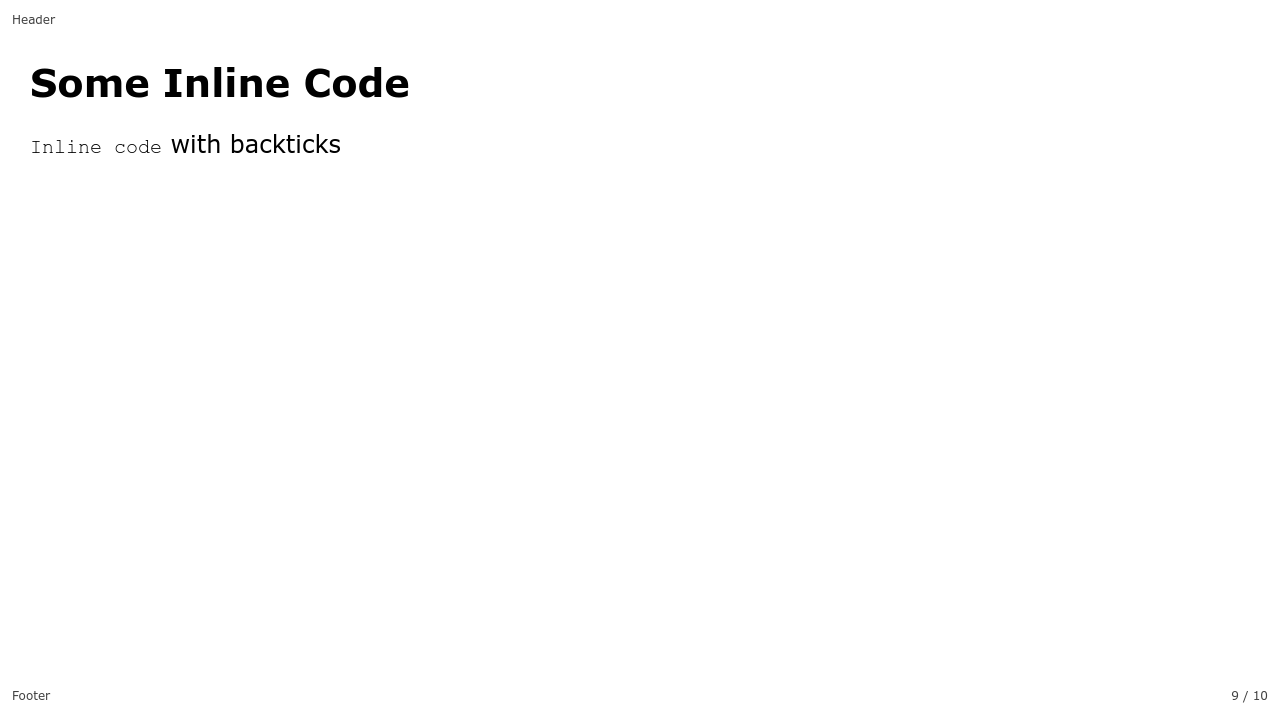
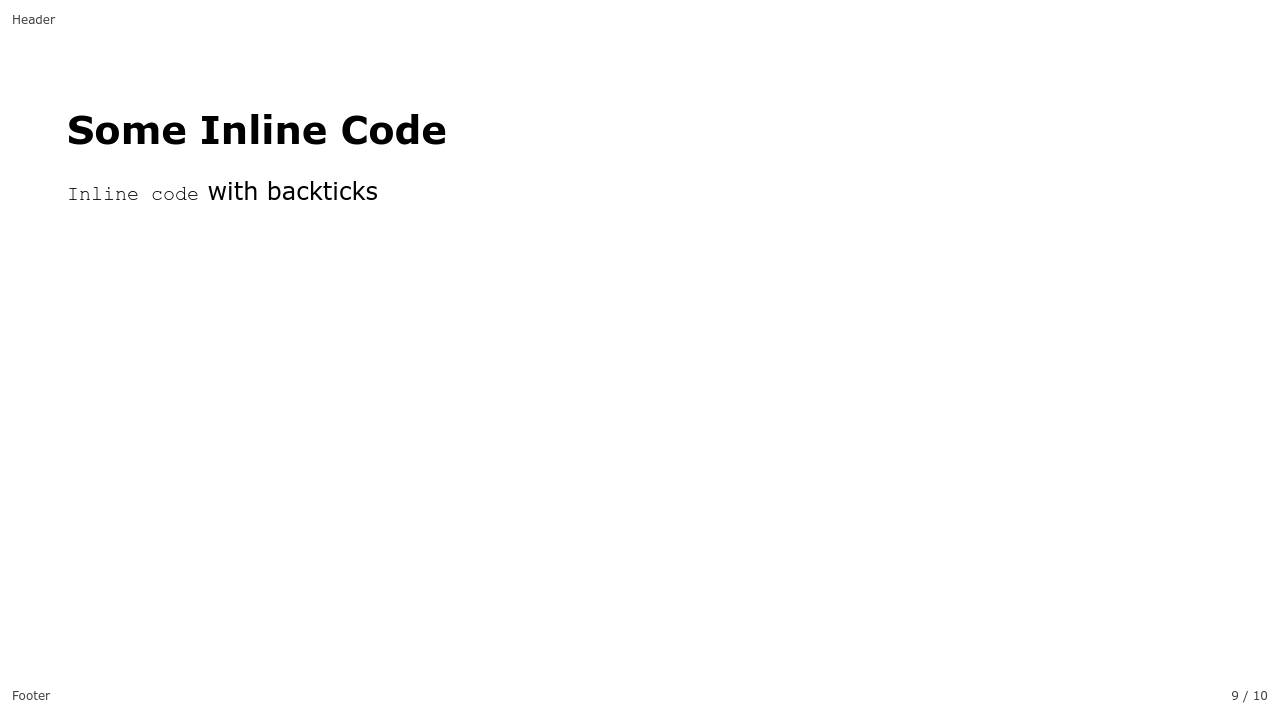
increased slide padding and moved it back into base style since there is no need to specify it through variables, it can still be overwritten

Changed region(s): [[0.0, 0.0917, 0.3438, 0.2139], [0.125, 0.2444, 0.3125, 0.275], [0.0625, 0.2444, 0.0938, 0.275]]

diff --git a/previews/minimal/html/slides.html b/previews/minimal/html/slides.html
@@ -1,14 +1,14 @@
[1 lines of base64/hex data omitted]
-/* @theme minimal */div#p>svg>foreignObject>section footer,div#p>svg>foreignObject>section header{position:absolute;left:0;right:0;margin:0}div#p>svg>foreignObject>section header{top:0;padding:12px;height:20px;font-size:12px;color:rgba(0,0,0,0.75)}div#p>svg>foreignObject>section footer{bottom:0;padding:12px;height:20px;font-size:12px;color:rgba(0,0,0,0.75)}div#p>svg>foreignObject>section{padding:20px 20px 30px 30px;justify-content:center;flex-direction:column;flex-wrap:nowrap;font-family:Verdana,Geneva,Tahoma,sans-serif;font-size:1.5em;color:black;background-color:white}div#p>svg>foreignObject>section h1{font-size:2.5em;color:black}div#p>svg>foreignObject>section h1:first-of-type{margin-top:17%}div#p>svg>foreignObject>section h2{font-size:1.3em;color:rgba(0,0,0,0.5)}div#p>svg>foreignObject>section h1,div#p>svg>foreignObject>section h2{text-align:center}div#p>svg>foreignObject>section h3{font-size:1.6em}div#p>svg>foreignObject>section h4{font-size:1.4em}div#p>svg>foreignObject>section h5{font-size:1.2em}div#p>svg>foreignObject>section h6{font-size:1em}div#p>svg>foreignObject>section h3,div#p>svg>foreignObject>section h4,div#p>svg>foreignObject>section h5,div#p>svg>foreignObject>section h6{border-bottom:none;margin-bottom:21px}div#p>svg>foreignObject>section h1 strong,div#p>svg>foreignObject>section h2 strong,div#p>svg>foreignObject>section h3 strong,div#p>svg>foreignObject>section h4 strong,div#p>svg>foreignObject>section h5 strong,div#p>svg>foreignObject>section h6 strong{font-weight:inherit}div#p>svg>foreignObject>section hr{height:0;padding-top:0.25em}div#p>svg>foreignObject>section ol,div#p>svg>foreignObject>section ul{margin:30px;text-align:left}div#p>svg>foreignObject>section ol li,div#p>svg>foreignObject>section ul li{font-size:1.5em}div#p>svg>foreignObject>section ol li li,div#p>svg>foreignObject>section ul li li{font-size:90%}div#p>svg>foreignObject>section ul{list-style-type:square}div#p>svg>foreignObject>section img{border:1px solid black;display:block;margin-left:auto;margin-right:auto;background-color:transparent}div#p>svg>foreignObject>section a{color:blue;text-decoration:underline}div#p>svg>foreignObject>section blockquote{border-left:13px solid black;padding-left:13px;color:rgba(0,0,0,0.75)}div#p>svg>foreignObject>section table{margin-left:auto;margin-right:auto;border-collapse:collapse}div#p>svg>foreignObject>section table tr{background-color:white;border-color:black}div#p>svg>foreignObject>section table tr:nth-child(2n){background-color:lightgrey}div#p>svg>foreignObject>section table th{background-color:darkgrey}div#p>svg>foreignObject>section table td,div#p>svg>foreignObject>section table th{border:1px solid black;padding:12px}div#p>svg>foreignObject>section pre{border:1px solid black;color:black;background-color:white;padding:5px}div#p>svg>foreignObject>section:after{position:absolute;padding:12px;height:20px;color:rgba(0,0,0,0.75);font-size:12px;content:attr(data-marpit-pagination) " / " attr(data-marpit-pagination-total)}
+/* @theme minimal */div#p>svg>foreignObject>section footer,div#p>svg>foreignObject>section header{position:absolute;left:0;right:0;margin:0}div#p>svg>foreignObject>section header{top:0;padding:12px;height:20px;font-size:12px;color:rgba(0,0,0,0.75)}div#p>svg>foreignObject>section footer{bottom:0;padding:12px;height:20px;font-size:12px;color:rgba(0,0,0,0.75)}div#p>svg>foreignObject>section{padding:67px;justify-content:center;flex-direction:column;flex-wrap:nowrap;font-family:Verdana,Geneva,Tahoma,sans-serif;font-size:1.5em;color:black;background-color:white}div#p>svg>foreignObject>section h1{font-size:2.5em;color:black}div#p>svg>foreignObject>section h1:first-of-type{margin-top:17%}div#p>svg>foreignObject>section h2{font-size:1.3em;color:rgba(0,0,0,0.5)}div#p>svg>foreignObject>section h1,div#p>svg>foreignObject>section h2{text-align:center}div#p>svg>foreignObject>section h3{font-size:1.6em}div#p>svg>foreignObject>section h4{font-size:1.4em}div#p>svg>foreignObject>section h5{font-size:1.2em}div#p>svg>foreignObject>section h6{font-size:1em}div#p>svg>foreignObject>section h3,div#p>svg>foreignObject>section h4,div#p>svg>foreignObject>section h5,div#p>svg>foreignObject>section h6{border-bottom:none;margin-bottom:21px}div#p>svg>foreignObject>section h1 strong,div#p>svg>foreignObject>section h2 strong,div#p>svg>foreignObject>section h3 strong,div#p>svg>foreignObject>section h4 strong,div#p>svg>foreignObject>section h5 strong,div#p>svg>foreignObject>section h6 strong{font-weight:inherit}div#p>svg>foreignObject>section hr{height:0;padding-top:0.25em}div#p>svg>foreignObject>section ol,div#p>svg>foreignObject>section ul{margin:30px;text-align:left}div#p>svg>foreignObject>section ol li,div#p>svg>foreignObject>section ul li{font-size:1.5em}div#p>svg>foreignObject>section ol li li,div#p>svg>foreignObject>section ul li li{font-size:90%}div#p>svg>foreignObject>section ul{list-style-type:square}div#p>svg>foreignObject>section img{border:1px solid black;display:block;margin-left:auto;margin-right:auto;background-color:transparent}div#p>svg>foreignObject>section a{color:blue;text-decoration:underline}div#p>svg>foreignObject>section blockquote{border-left:13px solid black;padding-left:13px;color:rgba(0,0,0,0.75)}div#p>svg>foreignObject>section table{margin-left:auto;margin-right:auto;border-collapse:collapse}div#p>svg>foreignObject>section table tr{background-color:white;border-color:black}div#p>svg>foreignObject>section table tr:nth-child(2n){background-color:lightgrey}div#p>svg>foreignObject>section table th{background-color:darkgrey}div#p>svg>foreignObject>section table td,div#p>svg>foreignObject>section table th{border:1px solid black;padding:12px}div#p>svg>foreignObject>section pre{border:1px solid black;color:black;background-color:white;padding:5px}div#p>svg>foreignObject>section:after{position:absolute;padding:12px;height:20px;color:rgba(0,0,0,0.75);font-size:12px;content:attr(data-marpit-pagination) " / " attr(data-marpit-pagination-total)}
 
-/* @theme 5i1w0ti58xu8szjmrrptvm53612vvsrd7iun10n13jt */div#p>svg>foreignObject>section[data-marpit-advanced-background=background]{display:block!important;padding:0!important}div#p>svg>foreignObject>section[data-marpit-advanced-background=background]:after,div#p>svg>foreignObject>section[data-marpit-advanced-background=background]:before,div#p>svg>foreignObject>section[data-marpit-advanced-background=content]:after,div#p>svg>foreignObject>section[data-marpit-advanced-background=content]:before{display:none!important}div#p>svg>foreignObject>section[data-marpit-advanced-background=background]>div[data-marpit-advanced-background-container]{all:initial;display:flex;flex-direction:row;height:100%;overflow:hidden;width:100%}div#p>svg>foreignObject>section[data-marpit-advanced-background=background]>div[data-marpit-advanced-background-container][data-marpit-advanced-background-direction=vertical]{flex-direction:column}div#p>svg>foreignObject>section[data-marpit-advanced-background=background][data-marpit-advanced-background-split]>div[data-marpit-advanced-background-container]{width:var(--marpit-advanced-background-split,50%)}div#p>svg>foreignObject>section[data-marpit-advanced-background=background][data-marpit-advanced-background-split=right]>div[data-marpit-advanced-background-container]{margin-left:calc(100% - var(--marpit-advanced-background-split, 50%))}div#p>svg>foreignObject>section[data-marpit-advanced-background=background]>div[data-marpit-advanced-background-container]>figure{all:initial;background-position:center;background-repeat:no-repeat;background-size:cover;flex:auto;margin:0}div#p>svg>foreignObject>section[data-marpit-advanced-background=content],div#p>svg>foreignObject>section[data-marpit-advanced-background=pseudo]{background:transparent!important}div#p>svg>foreignObject>section[data-marpit-advanced-background=pseudo],div#p>svg[data-marpit-svg]>foreignObject[data-marpit-advanced-background=pseudo]{pointer-events:none!important}div#p>svg>foreignObject>section[data-marpit-advanced-background-split]{width:100%;height:100%}</style></head><body><div class="bespoke-marp-osc"><button data-bespoke-marp-osc="prev" tabindex="-1" title="Previous slide">Previous slide</button><span data-bespoke-marp-osc="page"></span><button data-bespoke-marp-osc="next" tabindex="-1" title="Next slide">Next slide</button><button data-bespoke-marp-osc="fullscreen" tabindex="-1" title="Toggle fullscreen (f)">Toggle fullscreen</button><button data-bespoke-marp-osc="presenter" tabindex="-1" title="Open presenter view (p)">Open presenter view</button></div><div id="p"><svg data-marpit-svg="" viewBox="0 0 1280 720"><foreignObject width="1280" height="720"><section id="1" data-paginate="true" data-header="Header" data-footer="Footer" data-theme="5i1w0ti58xu8szjmrrptvm53612vvsrd7iun10n13jt" data-marpit-pagination="1" data-marpit-pagination-total="10" style="--paginate:true;--header:Header;--footer:Footer;--theme:5i1w0ti58xu8szjmrrptvm53612vvsrd7iun10n13jt;">
+/* @theme 3f1z46uzt5fdqct5ovda8gxec0eg3oc8p7kho1vhoqvx */div#p>svg>foreignObject>section[data-marpit-advanced-background=background]{display:block!important;padding:0!important}div#p>svg>foreignObject>section[data-marpit-advanced-background=background]:after,div#p>svg>foreignObject>section[data-marpit-advanced-background=background]:before,div#p>svg>foreignObject>section[data-marpit-advanced-background=content]:after,div#p>svg>foreignObject>section[data-marpit-advanced-background=content]:before{display:none!important}div#p>svg>foreignObject>section[data-marpit-advanced-background=background]>div[data-marpit-advanced-background-container]{all:initial;display:flex;flex-direction:row;height:100%;overflow:hidden;width:100%}div#p>svg>foreignObject>section[data-marpit-advanced-background=background]>div[data-marpit-advanced-background-container][data-marpit-advanced-background-direction=vertical]{flex-direction:column}div#p>svg>foreignObject>section[data-marpit-advanced-background=background][data-marpit-advanced-background-split]>div[data-marpit-advanced-background-container]{width:var(--marpit-advanced-background-split,50%)}div#p>svg>foreignObject>section[data-marpit-advanced-background=background][data-marpit-advanced-background-split=right]>div[data-marpit-advanced-background-container]{margin-left:calc(100% - var(--marpit-advanced-background-split, 50%))}div#p>svg>foreignObject>section[data-marpit-advanced-background=background]>div[data-marpit-advanced-background-container]>figure{all:initial;background-position:center;background-repeat:no-repeat;background-size:cover;flex:auto;margin:0}div#p>svg>foreignObject>section[data-marpit-advanced-background=content],div#p>svg>foreignObject>section[data-marpit-advanced-background=pseudo]{background:transparent!important}div#p>svg>foreignObject>section[data-marpit-advanced-background=pseudo],div#p>svg[data-marpit-svg]>foreignObject[data-marpit-advanced-background=pseudo]{pointer-events:none!important}div#p>svg>foreignObject>section[data-marpit-advanced-background-split]{width:100%;height:100%}</style></head><body><div class="bespoke-marp-osc"><button data-bespoke-marp-osc="prev" tabindex="-1" title="Previous slide">Previous slide</button><span data-bespoke-marp-osc="page"></span><button data-bespoke-marp-osc="next" tabindex="-1" title="Next slide">Next slide</button><button data-bespoke-marp-osc="fullscreen" tabindex="-1" title="Toggle fullscreen (f)">Toggle fullscreen</button><button data-bespoke-marp-osc="presenter" tabindex="-1" title="Open presenter view (p)">Open presenter view</button></div><div id="p"><svg data-marpit-svg="" viewBox="0 0 1280 720"><foreignObject width="1280" height="720"><section id="1" data-paginate="true" data-header="Header" data-footer="Footer" data-theme="3f1z46uzt5fdqct5ovda8gxec0eg3oc8p7kho1vhoqvx" data-marpit-pagination="1" data-marpit-pagination-total="10" style="--paginate:true;--header:Header;--footer:Footer;--theme:3f1z46uzt5fdqct5ovda8gxec0eg3oc8p7kho1vhoqvx;">
 <header>Header</header>
 
 <h1>Some Crazy Tile of Your Presentation</h1>
 <h2>Some longer or shorter subtitle of your presentation</h2>
 <footer>Footer</footer>
 </section>
-</foreignObject></svg><svg data-marpit-svg="" viewBox="0 0 1280 720"><foreignObject width="1280" height="720"><section id="2" data-paginate="true" data-header="Header" data-footer="Footer" data-theme="5i1w0ti58xu8szjmrrptvm53612vvsrd7iun10n13jt" data-marpit-pagination="2" data-marpit-pagination-total="10" style="--paginate:true;--header:Header;--footer:Footer;--theme:5i1w0ti58xu8szjmrrptvm53612vvsrd7iun10n13jt;">
+</foreignObject></svg><svg data-marpit-svg="" viewBox="0 0 1280 720"><foreignObject width="1280" height="720"><section id="2" data-paginate="true" data-header="Header" data-footer="Footer" data-theme="3f1z46uzt5fdqct5ovda8gxec0eg3oc8p7kho1vhoqvx" data-marpit-pagination="2" data-marpit-pagination-total="10" style="--paginate:true;--header:Header;--footer:Footer;--theme:3f1z46uzt5fdqct5ovda8gxec0eg3oc8p7kho1vhoqvx;">
 <header>Header</header>
 <h3>h3</h3>
 <p>normal text</p>
@@ -20,7 +20,7 @@
 <p>normal text</p>
 <footer>Footer</footer>
 </section>
-</foreignObject></svg><svg data-marpit-svg="" viewBox="0 0 1280 720"><foreignObject width="1280" height="720"><section id="3" data-marpit-fragments="5" data-paginate="true" data-header="Header" data-footer="Footer" data-theme="5i1w0ti58xu8szjmrrptvm53612vvsrd7iun10n13jt" data-marpit-pagination="3" data-marpit-pagination-total="10" style="--paginate:true;--header:Header;--footer:Footer;--theme:5i1w0ti58xu8szjmrrptvm53612vvsrd7iun10n13jt;">
+</foreignObject></svg><svg data-marpit-svg="" viewBox="0 0 1280 720"><foreignObject width="1280" height="720"><section id="3" data-marpit-fragments="5" data-paginate="true" data-header="Header" data-footer="Footer" data-theme="3f1z46uzt5fdqct5ovda8gxec0eg3oc8p7kho1vhoqvx" data-marpit-pagination="3" data-marpit-pagination-total="10" style="--paginate:true;--header:Header;--footer:Footer;--theme:3f1z46uzt5fdqct5ovda8gxec0eg3oc8p7kho1vhoqvx;">
 <header>Header</header>
 <h3>Some Itemization</h3>
 <ul>
@@ -44,7 +44,7 @@
 </ul>
 <footer>Footer</footer>
 </section>
-</foreignObject></svg><svg data-marpit-svg="" viewBox="0 0 1280 720"><foreignObject width="1280" height="720"><section id="4" data-paginate="true" data-header="Header" data-footer="Footer" data-theme="5i1w0ti58xu8szjmrrptvm53612vvsrd7iun10n13jt" data-marpit-pagination="4" data-marpit-pagination-total="10" style="--paginate:true;--header:Header;--footer:Footer;--theme:5i1w0ti58xu8szjmrrptvm53612vvsrd7iun10n13jt;">
+</foreignObject></svg><svg data-marpit-svg="" viewBox="0 0 1280 720"><foreignObject width="1280" height="720"><section id="4" data-paginate="true" data-header="Header" data-footer="Footer" data-theme="3f1z46uzt5fdqct5ovda8gxec0eg3oc8p7kho1vhoqvx" data-marpit-pagination="4" data-marpit-pagination-total="10" style="--paginate:true;--header:Header;--footer:Footer;--theme:3f1z46uzt5fdqct5ovda8gxec0eg3oc8p7kho1vhoqvx;">
 <header>Header</header>
 <h3>Some Enumeration</h3>
 <ol>
@@ -68,19 +68,19 @@
 </ol>
 <footer>Footer</footer>
 </section>
-</foreignObject></svg><svg data-marpit-svg="" viewBox="0 0 1280 720"><foreignObject width="1280" height="720"><section id="5" data-paginate="true" data-header="Header" data-footer="Footer" data-theme="5i1w0ti58xu8szjmrrptvm53612vvsrd7iun10n13jt" data-marpit-pagination="5" data-marpit-pagination-total="10" style="--paginate:true;--header:Header;--footer:Footer;--theme:5i1w0ti58xu8szjmrrptvm53612vvsrd7iun10n13jt;">
+</foreignObject></svg><svg data-marpit-svg="" viewBox="0 0 1280 720"><foreignObject width="1280" height="720"><section id="5" data-paginate="true" data-header="Header" data-footer="Footer" data-theme="3f1z46uzt5fdqct5ovda8gxec0eg3oc8p7kho1vhoqvx" data-marpit-pagination="5" data-marpit-pagination-total="10" style="--paginate:true;--header:Header;--footer:Footer;--theme:3f1z46uzt5fdqct5ovda8gxec0eg3oc8p7kho1vhoqvx;">
 <header>Header</header>
 <h3>Some Link</h3>
 <p><a href="https://google.com">Link</a></p>
 <footer>Footer</footer>
 </section>
-</foreignObject></svg><svg data-marpit-svg="" viewBox="0 0 1280 720"><foreignObject width="1280" height="720"><section id="6" data-paginate="true" data-header="Header" data-footer="Footer" data-theme="5i1w0ti58xu8szjmrrptvm53612vvsrd7iun10n13jt" data-marpit-pagination="6" data-marpit-pagination-total="10" style="--paginate:true;--header:Header;--footer:Footer;--theme:5i1w0ti58xu8szjmrrptvm53612vvsrd7iun10n13jt;">
+</foreignObject></svg><svg data-marpit-svg="" viewBox="0 0 1280 720"><foreignObject width="1280" height="720"><section id="6" data-paginate="true" data-header="Header" data-footer="Footer" data-theme="3f1z46uzt5fdqct5ovda8gxec0eg3oc8p7kho1vhoqvx" data-marpit-pagination="6" data-marpit-pagination-total="10" style="--paginate:true;--header:Header;--footer:Footer;--theme:3f1z46uzt5fdqct5ovda8gxec0eg3oc8p7kho1vhoqvx;">
 <header>Header</header>
 <h3>Some Image</h3>
-<p><img src="./image.png" alt="width:500px height:500px" style="width:500px;height:500px;" /></p>
+<p><img src="./image.png" alt="width:500px" style="width:500px;" /></p>
 <footer>Footer</footer>
 </section>
-</foreignObject></svg><svg data-marpit-svg="" viewBox="0 0 1280 720"><foreignObject width="1280" height="720"><section id="7" data-paginate="true" data-header="Header" data-footer="Footer" data-theme="5i1w0ti58xu8szjmrrptvm53612vvsrd7iun10n13jt" data-marpit-pagination="7" data-marpit-pagination-total="10" style="--paginate:true;--header:Header;--footer:Footer;--theme:5i1w0ti58xu8szjmrrptvm53612vvsrd7iun10n13jt;">
+</foreignObject></svg><svg data-marpit-svg="" viewBox="0 0 1280 720"><foreignObject width="1280" height="720"><section id="7" data-paginate="true" data-header="Header" data-footer="Footer" data-theme="3f1z46uzt5fdqct5ovda8gxec0eg3oc8p7kho1vhoqvx" data-marpit-pagination="7" data-marpit-pagination-total="10" style="--paginate:true;--header:Header;--footer:Footer;--theme:3f1z46uzt5fdqct5ovda8gxec0eg3oc8p7kho1vhoqvx;">
 <header>Header</header>
 <h3>Some Blockquotes</h3>
 <blockquote>
@@ -91,7 +91,7 @@
 </blockquote>
 <footer>Footer</footer>
 </section>
-</foreignObject></svg><svg data-marpit-svg="" viewBox="0 0 1280 720"><foreignObject width="1280" height="720"><section id="8" data-paginate="true" data-header="Header" data-footer="Footer" data-theme="5i1w0ti58xu8szjmrrptvm53612vvsrd7iun10n13jt" data-marpit-pagination="8" data-marpit-pagination-total="10" style="--paginate:true;--header:Header;--footer:Footer;--theme:5i1w0ti58xu8szjmrrptvm53612vvsrd7iun10n13jt;">
+</foreignObject></svg><svg data-marpit-svg="" viewBox="0 0 1280 720"><foreignObject width="1280" height="720"><section id="8" data-paginate="true" data-header="Header" data-footer="Footer" data-theme="3f1z46uzt5fdqct5ovda8gxec0eg3oc8p7kho1vhoqvx" data-marpit-pagination="8" data-marpit-pagination-total="10" style="--paginate:true;--header:Header;--footer:Footer;--theme:3f1z46uzt5fdqct5ovda8gxec0eg3oc8p7kho1vhoqvx;">
 <header>Header</header>
 <h3>Some Table</h3>
 <table>
@@ -132,13 +132,13 @@
 </table>
 <footer>Footer</footer>
 </section>
-</foreignObject></svg><svg data-marpit-svg="" viewBox="0 0 1280 720"><foreignObject width="1280" height="720"><section id="9" data-paginate="true" data-header="Header" data-footer="Footer" data-theme="5i1w0ti58xu8szjmrrptvm53612vvsrd7iun10n13jt" data-marpit-pagination="9" data-marpit-pagination-total="10" style="--paginate:true;--header:Header;--footer:Footer;--theme:5i1w0ti58xu8szjmrrptvm53612vvsrd7iun10n13jt;">
+</foreignObject></svg><svg data-marpit-svg="" viewBox="0 0 1280 720"><foreignObject width="1280" height="720"><section id="9" data-paginate="true" data-header="Header" data-footer="Footer" data-theme="3f1z46uzt5fdqct5ovda8gxec0eg3oc8p7kho1vhoqvx" data-marpit-pagination="9" data-marpit-pagination-total="10" style="--paginate:true;--header:Header;--footer:Footer;--theme:3f1z46uzt5fdqct5ovda8gxec0eg3oc8p7kho1vhoqvx;">
 <header>Header</header>
 <h3>Some Inline Code</h3>
 <p><code>Inline code</code> with backticks</p>
 <footer>Footer</footer>
 </section>
-</foreignObject></svg><svg data-marpit-svg="" viewBox="0 0 1280 720"><foreignObject width="1280" height="720"><section id="10" data-paginate="true" data-header="Header" data-footer="Footer" data-theme="5i1w0ti58xu8szjmrrptvm53612vvsrd7iun10n13jt" data-marpit-pagination="10" data-marpit-pagination-total="10" style="--paginate:true;--header:Header;--footer:Footer;--theme:5i1w0ti58xu8szjmrrptvm53612vvsrd7iun10n13jt;">
+</foreignObject></svg><svg data-marpit-svg="" viewBox="0 0 1280 720"><foreignObject width="1280" height="720"><section id="10" data-paginate="true" data-header="Header" data-footer="Footer" data-theme="3f1z46uzt5fdqct5ovda8gxec0eg3oc8p7kho1vhoqvx" data-marpit-pagination="10" data-marpit-pagination-total="10" style="--paginate:true;--header:Header;--footer:Footer;--theme:3f1z46uzt5fdqct5ovda8gxec0eg3oc8p7kho1vhoqvx;">
 <header>Header</header>
 <h3>Some Code Block</h3>
 <pre><code class="language-c#"><span class="hljs-keyword">using</span> System;

diff --git a/previews/diabolo/html/slides.html b/previews/diabolo/html/slides.html
@@ -1,14 +1,14 @@
[1 lines of base64/hex data omitted]
-/* @theme minimal */div#p>svg>foreignObject>section footer,div#p>svg>foreignObject>section header{position:absolute;left:0;right:0;margin:0}div#p>svg>foreignObject>section header{top:0;padding:12px;height:20px;font-size:12px;color:rgba(0,0,0,0.75)}div#p>svg>foreignObject>section footer{bottom:0;padding:12px;height:20px;font-size:12px;color:rgba(0,0,0,0.75)}div#p>svg>foreignObject>section{padding:20px 20px 30px 30px;justify-content:center;flex-direction:column;flex-wrap:nowrap;font-family:Verdana,Geneva,Tahoma,sans-serif;font-size:1.5em;color:black;background-color:darkred}div#p>svg>foreignObject>section h1{font-size:2.5em;color:black}div#p>svg>foreignObject>section h1:first-of-type{margin-top:17%}div#p>svg>foreignObject>section h2{font-size:1.3em;color:rgba(0,0,0,0.5)}div#p>svg>foreignObject>section h1,div#p>svg>foreignObject>section h2{text-align:center}div#p>svg>foreignObject>section h3{font-size:1.6em}div#p>svg>foreignObject>section h4{font-size:1.4em}div#p>svg>foreignObject>section h5{font-size:1.2em}div#p>svg>foreignObject>section h6{font-size:1em}div#p>svg>foreignObject>section h3,div#p>svg>foreignObject>section h4,div#p>svg>foreignObject>section h5,div#p>svg>foreignObject>section h6{border-bottom:none;margin-bottom:21px}div#p>svg>foreignObject>section h1 strong,div#p>svg>foreignObject>section h2 strong,div#p>svg>foreignObject>section h3 strong,div#p>svg>foreignObject>section h4 strong,div#p>svg>foreignObject>section h5 strong,div#p>svg>foreignObject>section h6 strong{font-weight:inherit}div#p>svg>foreignObject>section hr{height:0;padding-top:0.25em}div#p>svg>foreignObject>section ol,div#p>svg>foreignObject>section ul{margin:30px;text-align:left}div#p>svg>foreignObject>section ol li,div#p>svg>foreignObject>section ul li{font-size:1.5em}div#p>svg>foreignObject>section ol li li,div#p>svg>foreignObject>section ul li li{font-size:90%}div#p>svg>foreignObject>section ul{list-style-type:square}div#p>svg>foreignObject>section img{border:1px solid black;display:block;margin-left:auto;margin-right:auto;background-color:transparent}div#p>svg>foreignObject>section a{color:blue;text-decoration:underline}div#p>svg>foreignObject>section blockquote{border-left:13px solid black;padding-left:13px;color:rgba(0,0,0,0.75)}div#p>svg>foreignObject>section table{margin-left:auto;margin-right:auto;border-collapse:collapse}div#p>svg>foreignObject>section table tr{background-color:white;border-color:black}div#p>svg>foreignObject>section table tr:nth-child(2n){background-color:lightgrey}div#p>svg>foreignObject>section table th{background-color:darkgrey}div#p>svg>foreignObject>section table td,div#p>svg>foreignObject>section table th{border:1px solid black;padding:12px}div#p>svg>foreignObject>section pre{border:1px solid black;color:black;background-color:white;padding:5px}div#p>svg>foreignObject>section:after{position:absolute;padding:12px;height:20px;color:rgba(0,0,0,0.75);font-size:12px;content:attr(data-marpit-pagination) " / " attr(data-marpit-pagination-total)}
+/* @theme minimal */div#p>svg>foreignObject>section footer,div#p>svg>foreignObject>section header{position:absolute;left:0;right:0;margin:0}div#p>svg>foreignObject>section header{top:0;padding:12px;height:20px;font-size:12px;color:rgba(0,0,0,0.75)}div#p>svg>foreignObject>section footer{bottom:0;padding:12px;height:20px;font-size:12px;color:rgba(0,0,0,0.75)}div#p>svg>foreignObject>section{padding:67px;justify-content:center;flex-direction:column;flex-wrap:nowrap;font-family:Verdana,Geneva,Tahoma,sans-serif;font-size:1.5em;color:black;background-color:darkred}div#p>svg>foreignObject>section h1{font-size:2.5em;color:black}div#p>svg>foreignObject>section h1:first-of-type{margin-top:17%}div#p>svg>foreignObject>section h2{font-size:1.3em;color:rgba(0,0,0,0.5)}div#p>svg>foreignObject>section h1,div#p>svg>foreignObject>section h2{text-align:center}div#p>svg>foreignObject>section h3{font-size:1.6em}div#p>svg>foreignObject>section h4{font-size:1.4em}div#p>svg>foreignObject>section h5{font-size:1.2em}div#p>svg>foreignObject>section h6{font-size:1em}div#p>svg>foreignObject>section h3,div#p>svg>foreignObject>section h4,div#p>svg>foreignObject>section h5,div#p>svg>foreignObject>section h6{border-bottom:none;margin-bottom:21px}div#p>svg>foreignObject>section h1 strong,div#p>svg>foreignObject>section h2 strong,div#p>svg>foreignObject>section h3 strong,div#p>svg>foreignObject>section h4 strong,div#p>svg>foreignObject>section h5 strong,div#p>svg>foreignObject>section h6 strong{font-weight:inherit}div#p>svg>foreignObject>section hr{height:0;padding-top:0.25em}div#p>svg>foreignObject>section ol,div#p>svg>foreignObject>section ul{margin:30px;text-align:left}div#p>svg>foreignObject>section ol li,div#p>svg>foreignObject>section ul li{font-size:1.5em}div#p>svg>foreignObject>section ol li li,div#p>svg>foreignObject>section ul li li{font-size:90%}div#p>svg>foreignObject>section ul{list-style-type:square}div#p>svg>foreignObject>section img{border:1px solid black;display:block;margin-left:auto;margin-right:auto;background-color:transparent}div#p>svg>foreignObject>section a{color:blue;text-decoration:underline}div#p>svg>foreignObject>section blockquote{border-left:13px solid black;padding-left:13px;color:rgba(0,0,0,0.75)}div#p>svg>foreignObject>section table{margin-left:auto;margin-right:auto;border-collapse:collapse}div#p>svg>foreignObject>section table tr{background-color:white;border-color:black}div#p>svg>foreignObject>section table tr:nth-child(2n){background-color:lightgrey}div#p>svg>foreignObject>section table th{background-color:darkgrey}div#p>svg>foreignObject>section table td,div#p>svg>foreignObject>section table th{border:1px solid black;padding:12px}div#p>svg>foreignObject>section pre{border:1px solid black;color:black;background-color:white;padding:5px}div#p>svg>foreignObject>section:after{position:absolute;padding:12px;height:20px;color:rgba(0,0,0,0.75);font-size:12px;content:attr(data-marpit-pagination) " / " attr(data-marpit-pagination-total)}
 
-/* @theme 502kexdl8kxtf7kuofq18keaoleoquombqpuov1e5 */div#p>svg>foreignObject>section[data-marpit-advanced-background=background]{display:block!important;padding:0!important}div#p>svg>foreignObject>section[data-marpit-advanced-background=background]:after,div#p>svg>foreignObject>section[data-marpit-advanced-background=background]:before,div#p>svg>foreignObject>section[data-marpit-advanced-background=content]:after,div#p>svg>foreignObject>section[data-marpit-advanced-background=content]:before{display:none!important}div#p>svg>foreignObject>section[data-marpit-advanced-background=background]>div[data-marpit-advanced-background-container]{all:initial;display:flex;flex-direction:row;height:100%;overflow:hidden;width:100%}div#p>svg>foreignObject>section[data-marpit-advanced-background=background]>div[data-marpit-advanced-background-container][data-marpit-advanced-background-direction=vertical]{flex-direction:column}div#p>svg>foreignObject>section[data-marpit-advanced-background=background][data-marpit-advanced-background-split]>div[data-marpit-advanced-background-container]{width:var(--marpit-advanced-background-split,50%)}div#p>svg>foreignObject>section[data-marpit-advanced-background=background][data-marpit-advanced-background-split=right]>div[data-marpit-advanced-background-container]{margin-left:calc(100% - var(--marpit-advanced-background-split, 50%))}div#p>svg>foreignObject>section[data-marpit-advanced-background=background]>div[data-marpit-advanced-background-container]>figure{all:initial;background-position:center;background-repeat:no-repeat;background-size:cover;flex:auto;margin:0}div#p>svg>foreignObject>section[data-marpit-advanced-background=content],div#p>svg>foreignObject>section[data-marpit-advanced-background=pseudo]{background:transparent!important}div#p>svg>foreignObject>section[data-marpit-advanced-background=pseudo],div#p>svg[data-marpit-svg]>foreignObject[data-marpit-advanced-background=pseudo]{pointer-events:none!important}div#p>svg>foreignObject>section[data-marpit-advanced-background-split]{width:100%;height:100%}</style></head><body><div class="bespoke-marp-osc"><button data-bespoke-marp-osc="prev" tabindex="-1" title="Previous slide">Previous slide</button><span data-bespoke-marp-osc="page"></span><button data-bespoke-marp-osc="next" tabindex="-1" title="Next slide">Next slide</button><button data-bespoke-marp-osc="fullscreen" tabindex="-1" title="Toggle fullscreen (f)">Toggle fullscreen</button><button data-bespoke-marp-osc="presenter" tabindex="-1" title="Open presenter view (p)">Open presenter view</button></div><div id="p"><svg data-marpit-svg="" viewBox="0 0 1280 720"><foreignObject width="1280" height="720"><section id="1" data-paginate="true" data-header="Header" data-footer="Footer" data-theme="502kexdl8kxtf7kuofq18keaoleoquombqpuov1e5" data-marpit-pagination="1" data-marpit-pagination-total="10" style="--paginate:true;--header:Header;--footer:Footer;--theme:502kexdl8kxtf7kuofq18keaoleoquombqpuov1e5;">
+/* @theme n1ol0z2nikfrb6v3prrjeuaxxlre6q6fhmnusaauwd8 */div#p>svg>foreignObject>section[data-marpit-advanced-background=background]{display:block!important;padding:0!important}div#p>svg>foreignObject>section[data-marpit-advanced-background=background]:after,div#p>svg>foreignObject>section[data-marpit-advanced-background=background]:before,div#p>svg>foreignObject>section[data-marpit-advanced-background=content]:after,div#p>svg>foreignObject>section[data-marpit-advanced-background=content]:before{display:none!important}div#p>svg>foreignObject>section[data-marpit-advanced-background=background]>div[data-marpit-advanced-background-container]{all:initial;display:flex;flex-direction:row;height:100%;overflow:hidden;width:100%}div#p>svg>foreignObject>section[data-marpit-advanced-background=background]>div[data-marpit-advanced-background-container][data-marpit-advanced-background-direction=vertical]{flex-direction:column}div#p>svg>foreignObject>section[data-marpit-advanced-background=background][data-marpit-advanced-background-split]>div[data-marpit-advanced-background-container]{width:var(--marpit-advanced-background-split,50%)}div#p>svg>foreignObject>section[data-marpit-advanced-background=background][data-marpit-advanced-background-split=right]>div[data-marpit-advanced-background-container]{margin-left:calc(100% - var(--marpit-advanced-background-split, 50%))}div#p>svg>foreignObject>section[data-marpit-advanced-background=background]>div[data-marpit-advanced-background-container]>figure{all:initial;background-position:center;background-repeat:no-repeat;background-size:cover;flex:auto;margin:0}div#p>svg>foreignObject>section[data-marpit-advanced-background=content],div#p>svg>foreignObject>section[data-marpit-advanced-background=pseudo]{background:transparent!important}div#p>svg>foreignObject>section[data-marpit-advanced-background=pseudo],div#p>svg[data-marpit-svg]>foreignObject[data-marpit-advanced-background=pseudo]{pointer-events:none!important}div#p>svg>foreignObject>section[data-marpit-advanced-background-split]{width:100%;height:100%}</style></head><body><div class="bespoke-marp-osc"><button data-bespoke-marp-osc="prev" tabindex="-1" title="Previous slide">Previous slide</button><span data-bespoke-marp-osc="page"></span><button data-bespoke-marp-osc="next" tabindex="-1" title="Next slide">Next slide</button><button data-bespoke-marp-osc="fullscreen" tabindex="-1" title="Toggle fullscreen (f)">Toggle fullscreen</button><button data-bespoke-marp-osc="presenter" tabindex="-1" title="Open presenter view (p)">Open presenter view</button></div><div id="p"><svg data-marpit-svg="" viewBox="0 0 1280 720"><foreignObject width="1280" height="720"><section id="1" data-paginate="true" data-header="Header" data-footer="Footer" data-theme="n1ol0z2nikfrb6v3prrjeuaxxlre6q6fhmnusaauwd8" data-marpit-pagination="1" data-marpit-pagination-total="10" style="--paginate:true;--header:Header;--footer:Footer;--theme:n1ol0z2nikfrb6v3prrjeuaxxlre6q6fhmnusaauwd8;">
 <header>Header</header>
 
 <h1>Some Crazy Tile of Your Presentation</h1>
 <h2>Some longer or shorter subtitle of your presentation</h2>
 <footer>Footer</footer>
 </section>
-</foreignObject></svg><svg data-marpit-svg="" viewBox="0 0 1280 720"><foreignObject width="1280" height="720"><section id="2" data-paginate="true" data-header="Header" data-footer="Footer" data-theme="502kexdl8kxtf7kuofq18keaoleoquombqpuov1e5" data-marpit-pagination="2" data-marpit-pagination-total="10" style="--paginate:true;--header:Header;--footer:Footer;--theme:502kexdl8kxtf7kuofq18keaoleoquombqpuov1e5;">
+</foreignObject></svg><svg data-marpit-svg="" viewBox="0 0 1280 720"><foreignObject width="1280" height="720"><section id="2" data-paginate="true" data-header="Header" data-footer="Footer" data-theme="n1ol0z2nikfrb6v3prrjeuaxxlre6q6fhmnusaauwd8" data-marpit-pagination="2" data-marpit-pagination-total="10" style="--paginate:true;--header:Header;--footer:Footer;--theme:n1ol0z2nikfrb6v3prrjeuaxxlre6q6fhmnusaauwd8;">
 <header>Header</header>
 <h3>h3</h3>
 <p>normal text</p>
@@ -20,7 +20,7 @@
 <p>normal text</p>
 <footer>Footer</footer>
 </section>
-</foreignObject></svg><svg data-marpit-svg="" viewBox="0 0 1280 720"><foreignObject width="1280" height="720"><section id="3" data-marpit-fragments="5" data-paginate="true" data-header="Header" data-footer="Footer" data-theme="502kexdl8kxtf7kuofq18keaoleoquombqpuov1e5" data-marpit-pagination="3" data-marpit-pagination-total="10" style="--paginate:true;--header:Header;--footer:Footer;--theme:502kexdl8kxtf7kuofq18keaoleoquombqpuov1e5;">
+</foreignObject></svg><svg data-marpit-svg="" viewBox="0 0 1280 720"><foreignObject width="1280" height="720"><section id="3" data-marpit-fragments="5" data-paginate="true" data-header="Header" data-footer="Footer" data-theme="n1ol0z2nikfrb6v3prrjeuaxxlre6q6fhmnusaauwd8" data-marpit-pagination="3" data-marpit-pagination-total="10" style="--paginate:true;--header:Header;--footer:Footer;--theme:n1ol0z2nikfrb6v3prrjeuaxxlre6q6fhmnusaauwd8;">
 <header>Header</header>
 <h3>Some Itemization</h3>
 <ul>
@@ -44,7 +44,7 @@
 </ul>
 <footer>Footer</footer>
 </section>
-</foreignObject></svg><svg data-marpit-svg="" viewBox="0 0 1280 720"><foreignObject width="1280" height="720"><section id="4" data-paginate="true" data-header="Header" data-footer="Footer" data-theme="502kexdl8kxtf7kuofq18keaoleoquombqpuov1e5" data-marpit-pagination="4" data-marpit-pagination-total="10" style="--paginate:true;--header:Header;--footer:Footer;--theme:502kexdl8kxtf7kuofq18keaoleoquombqpuov1e5;">
+</foreignObject></svg><svg data-marpit-svg="" viewBox="0 0 1280 720"><foreignObject width="1280" height="720"><section id="4" data-paginate="true" data-header="Header" data-footer="Footer" data-theme="n1ol0z2nikfrb6v3prrjeuaxxlre6q6fhmnusaauwd8" data-marpit-pagination="4" data-marpit-pagination-total="10" style="--paginate:true;--header:Header;--footer:Footer;--theme:n1ol0z2nikfrb6v3prrjeuaxxlre6q6fhmnusaauwd8;">
 <header>Header</header>
 <h3>Some Enumeration</h3>
 <ol>
@@ -68,19 +68,19 @@
 </ol>
 <footer>Footer</footer>
 </section>
-</foreignObject></svg><svg data-marpit-svg="" viewBox="0 0 1280 720"><foreignObject width="1280" height="720"><section id="5" data-paginate="true" data-header="Header" data-footer="Footer" data-theme="502kexdl8kxtf7kuofq18keaoleoquombqpuov1e5" data-marpit-pagination="5" data-marpit-pagination-total="10" style="--paginate:true;--header:Header;--footer:Footer;--theme:502kexdl8kxtf7kuofq18keaoleoquombqpuov1e5;">
+</foreignObject></svg><svg data-marpit-svg="" viewBox="0 0 1280 720"><foreignObject width="1280" height="720"><section id="5" data-paginate="true" data-header="Header" data-footer="Footer" data-theme="n1ol0z2nikfrb6v3prrjeuaxxlre6q6fhmnusaauwd8" data-marpit-pagination="5" data-marpit-pagination-total="10" style="--paginate:true;--header:Header;--footer:Footer;--theme:n1ol0z2nikfrb6v3prrjeuaxxlre6q6fhmnusaauwd8;">
 <header>Header</header>
 <h3>Some Link</h3>
 <p><a href="https://google.com">Link</a></p>
 <footer>Footer</footer>
 </section>
-</foreignObject></svg><svg data-marpit-svg="" viewBox="0 0 1280 720"><foreignObject width="1280" height="720"><section id="6" data-paginate="true" data-header="Header" data-footer="Footer" data-theme="502kexdl8kxtf7kuofq18keaoleoquombqpuov1e5" data-marpit-pagination="6" data-marpit-pagination-total="10" style="--paginate:true;--header:Header;--footer:Footer;--theme:502kexdl8kxtf7kuofq18keaoleoquombqpuov1e5;">
+</foreignObject></svg><svg data-marpit-svg="" viewBox="0 0 1280 720"><foreignObject width="1280" height="720"><section id="6" data-paginate="true" data-header="Header" data-footer="Footer" data-theme="n1ol0z2nikfrb6v3prrjeuaxxlre6q6fhmnusaauwd8" data-marpit-pagination="6" data-marpit-pagination-total="10" style="--paginate:true;--header:Header;--footer:Footer;--theme:n1ol0z2nikfrb6v3prrjeuaxxlre6q6fhmnusaauwd8;">
 <header>Header</header>
 <h3>Some Image</h3>
-<p><img src="./image.png" alt="width:500px height:500px" style="width:500px;height:500px;" /></p>
+<p><img src="./image.png" alt="width:500px" style="width:500px;" /></p>
 <footer>Footer</footer>
 </section>
-</foreignObject></svg><svg data-marpit-svg="" viewBox="0 0 1280 720"><foreignObject width="1280" height="720"><section id="7" data-paginate="true" data-header="Header" data-footer="Footer" data-theme="502kexdl8kxtf7kuofq18keaoleoquombqpuov1e5" data-marpit-pagination="7" data-marpit-pagination-total="10" style="--paginate:true;--header:Header;--footer:Footer;--theme:502kexdl8kxtf7kuofq18keaoleoquombqpuov1e5;">
+</foreignObject></svg><svg data-marpit-svg="" viewBox="0 0 1280 720"><foreignObject width="1280" height="720"><section id="7" data-paginate="true" data-header="Header" data-footer="Footer" data-theme="n1ol0z2nikfrb6v3prrjeuaxxlre6q6fhmnusaauwd8" data-marpit-pagination="7" data-marpit-pagination-total="10" style="--paginate:true;--header:Header;--footer:Footer;--theme:n1ol0z2nikfrb6v3prrjeuaxxlre6q6fhmnusaauwd8;">
 <header>Header</header>
 <h3>Some Blockquotes</h3>
 <blockquote>
@@ -91,7 +91,7 @@
 </blockquote>
 <footer>Footer</footer>
 </section>
-</foreignObject></svg><svg data-marpit-svg="" viewBox="0 0 1280 720"><foreignObject width="1280" height="720"><section id="8" data-paginate="true" data-header="Header" data-footer="Footer" data-theme="502kexdl8kxtf7kuofq18keaoleoquombqpuov1e5" data-marpit-pagination="8" data-marpit-pagination-total="10" style="--paginate:true;--header:Header;--footer:Footer;--theme:502kexdl8kxtf7kuofq18keaoleoquombqpuov1e5;">
+</foreignObject></svg><svg data-marpit-svg="" viewBox="0 0 1280 720"><foreignObject width="1280" height="720"><section id="8" data-paginate="true" data-header="Header" data-footer="Footer" data-theme="n1ol0z2nikfrb6v3prrjeuaxxlre6q6fhmnusaauwd8" data-marpit-pagination="8" data-marpit-pagination-total="10" style="--paginate:true;--header:Header;--footer:Footer;--theme:n1ol0z2nikfrb6v3prrjeuaxxlre6q6fhmnusaauwd8;">
 <header>Header</header>
 <h3>Some Table</h3>
 <table>
@@ -132,13 +132,13 @@
 </table>
 <footer>Footer</footer>
 </section>
-</foreignObject></svg><svg data-marpit-svg="" viewBox="0 0 1280 720"><foreignObject width="1280" height="720"><section id="9" data-paginate="true" data-header="Header" data-footer="Footer" data-theme="502kexdl8kxtf7kuofq18keaoleoquombqpuov1e5" data-marpit-pagination="9" data-marpit-pagination-total="10" style="--paginate:true;--header:Header;--footer:Footer;--theme:502kexdl8kxtf7kuofq18keaoleoquombqpuov1e5;">
+</foreignObject></svg><svg data-marpit-svg="" viewBox="0 0 1280 720"><foreignObject width="1280" height="720"><section id="9" data-paginate="true" data-header="Header" data-footer="Footer" data-theme="n1ol0z2nikfrb6v3prrjeuaxxlre6q6fhmnusaauwd8" data-marpit-pagination="9" data-marpit-pagination-total="10" style="--paginate:true;--header:Header;--footer:Footer;--theme:n1ol0z2nikfrb6v3prrjeuaxxlre6q6fhmnusaauwd8;">
 <header>Header</header>
 <h3>Some Inline Code</h3>
 <p><code>Inline code</code> with backticks</p>
 <footer>Footer</footer>
 </section>
-</foreignObject></svg><svg data-marpit-svg="" viewBox="0 0 1280 720"><foreignObject width="1280" height="720"><section id="10" data-paginate="true" data-header="Header" data-footer="Footer" data-theme="502kexdl8kxtf7kuofq18keaoleoquombqpuov1e5" data-marpit-pagination="10" data-marpit-pagination-total="10" style="--paginate:true;--header:Header;--footer:Footer;--theme:502kexdl8kxtf7kuofq18keaoleoquombqpuov1e5;">
+</foreignObject></svg><svg data-marpit-svg="" viewBox="0 0 1280 720"><foreignObject width="1280" height="720"><section id="10" data-paginate="true" data-header="Header" data-footer="Footer" data-theme="n1ol0z2nikfrb6v3prrjeuaxxlre6q6fhmnusaauwd8" data-marpit-pagination="10" data-marpit-pagination-total="10" style="--paginate:true;--header:Header;--footer:Footer;--theme:n1ol0z2nikfrb6v3prrjeuaxxlre6q6fhmnusaauwd8;">
 <header>Header</header>
 <h3>Some Code Block</h3>
 <pre><code class="language-c#"><span class="hljs-keyword">using</span> System;

diff --git a/src/diabolo/diabolo.scss b/src/diabolo/diabolo.scss
@@ -62,7 +62,6 @@ $list-margin: 30px;
 $list-item-text-size-auto-decrease: 90%;
 
 // inferred:
-$slide-padding: $header-height $footer-height 30px 30px;
 $header-text-color: rgba($slide-text-color, 0.75);
 $footer-text-color: rgba($slide-text-color, 0.75);
 $title-text-color: $slide-text-color;

diff --git a/src/minimal/minimal.scss b/src/minimal/minimal.scss
@@ -62,7 +62,6 @@ $list-margin: 30px;
 $list-item-text-size-auto-decrease: 90%;
 
 // inferred:
-$slide-padding: $header-height $footer-height 30px 30px;
 $header-text-color: rgba($slide-text-color, 0.75);
 $footer-text-color: rgba($slide-text-color, 0.75);
 $title-text-color: $slide-text-color;

diff --git a/themes/diabolo.css b/themes/diabolo.css
@@ -24,7 +24,7 @@ footer {
 }
 
 section {
-  padding: 20px 20px 30px 30px;
+  padding: 67px;
   justify-content: center;
   flex-direction: column;
   flex-wrap: nowrap;

diff --git a/themes/minimal.css b/themes/minimal.css
@@ -24,7 +24,7 @@ footer {
 }
 
 section {
-  padding: 20px 20px 30px 30px;
+  padding: 67px;
   justify-content: center;
   flex-direction: column;
   flex-wrap: nowrap;

diff --git a/src/base/slide.scss b/src/base/slide.scss
@@ -1,6 +1,6 @@
 // Slide Styles
 section {
-    padding: $slide-padding;
+    padding: 67px;
   
     justify-content: center;
     flex-direction: column;

diff --git a/test/slides.md b/test/slides.md
@@ -49,7 +49,7 @@ normal text
 
 ### Some Image
 
-![width:500px height:500px](./image.png) 
+![width:500px](./image.png) 
 
 ---
 
